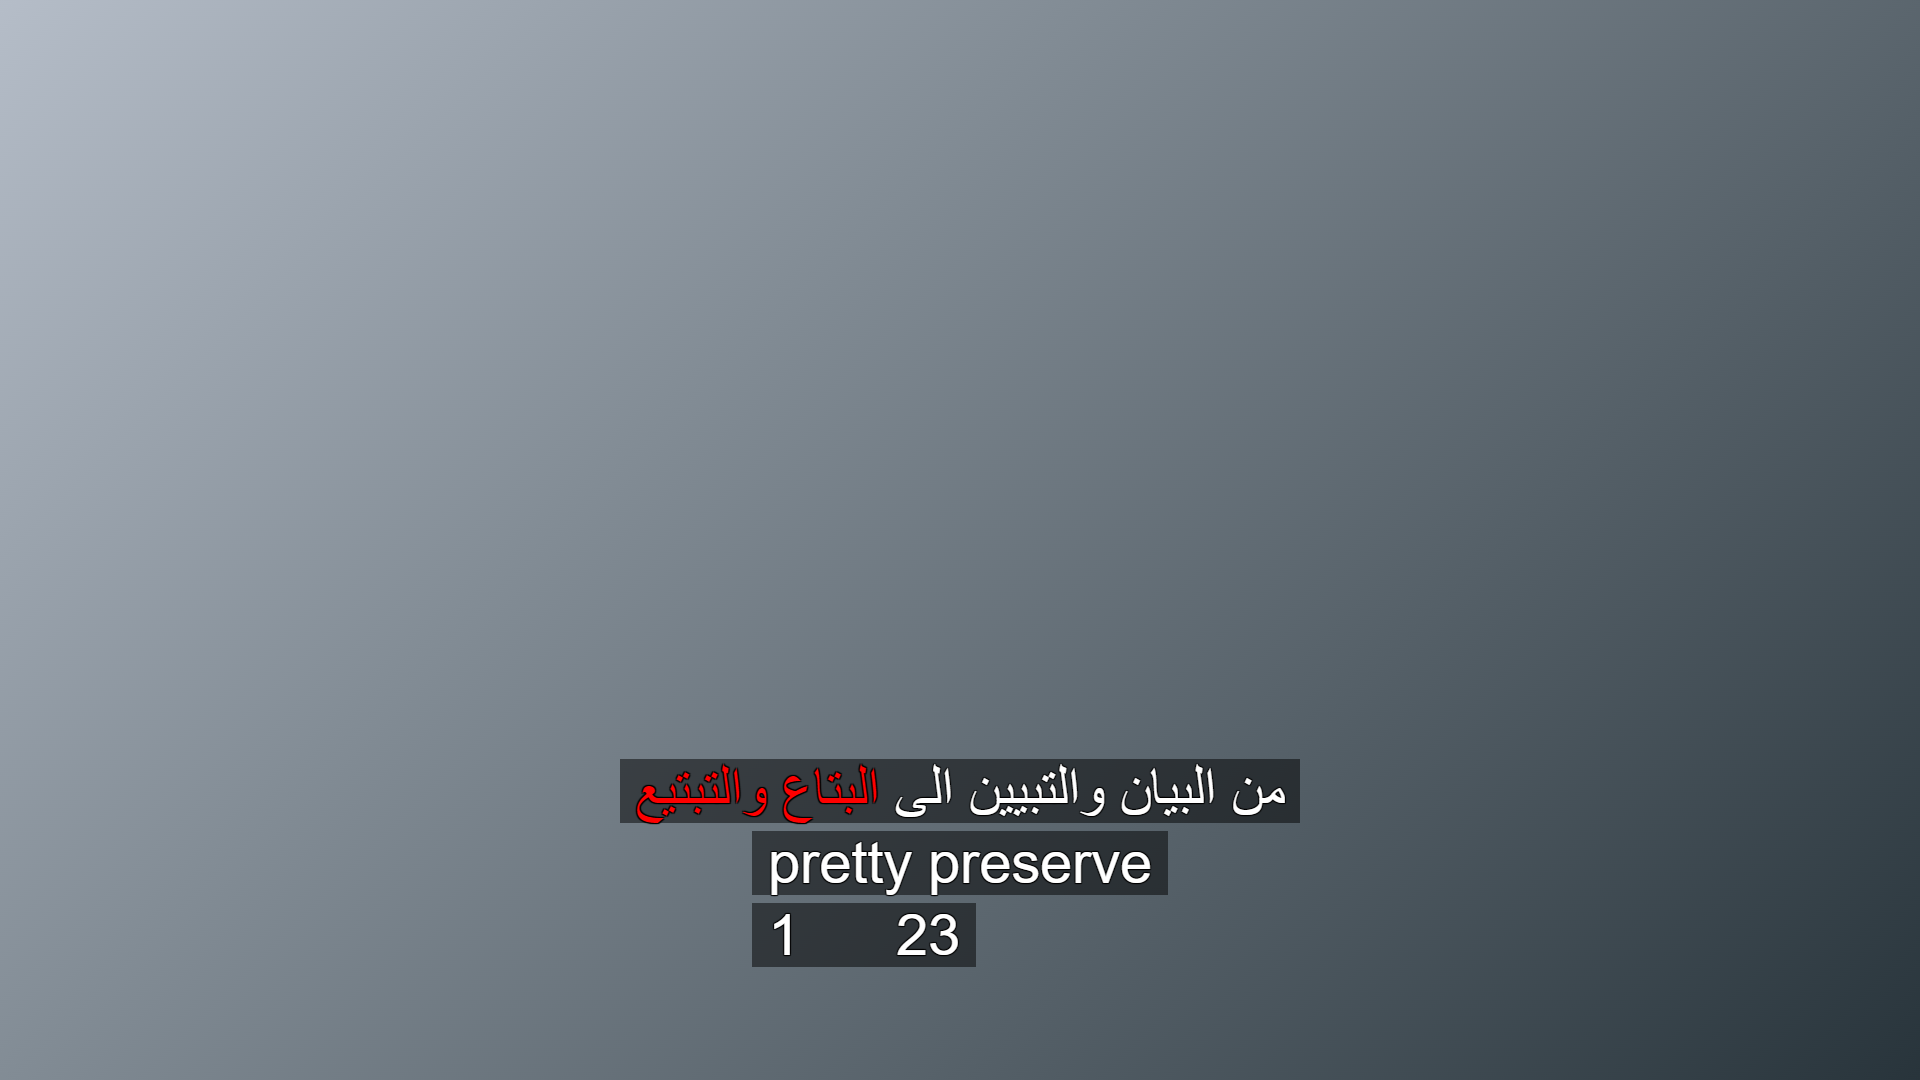
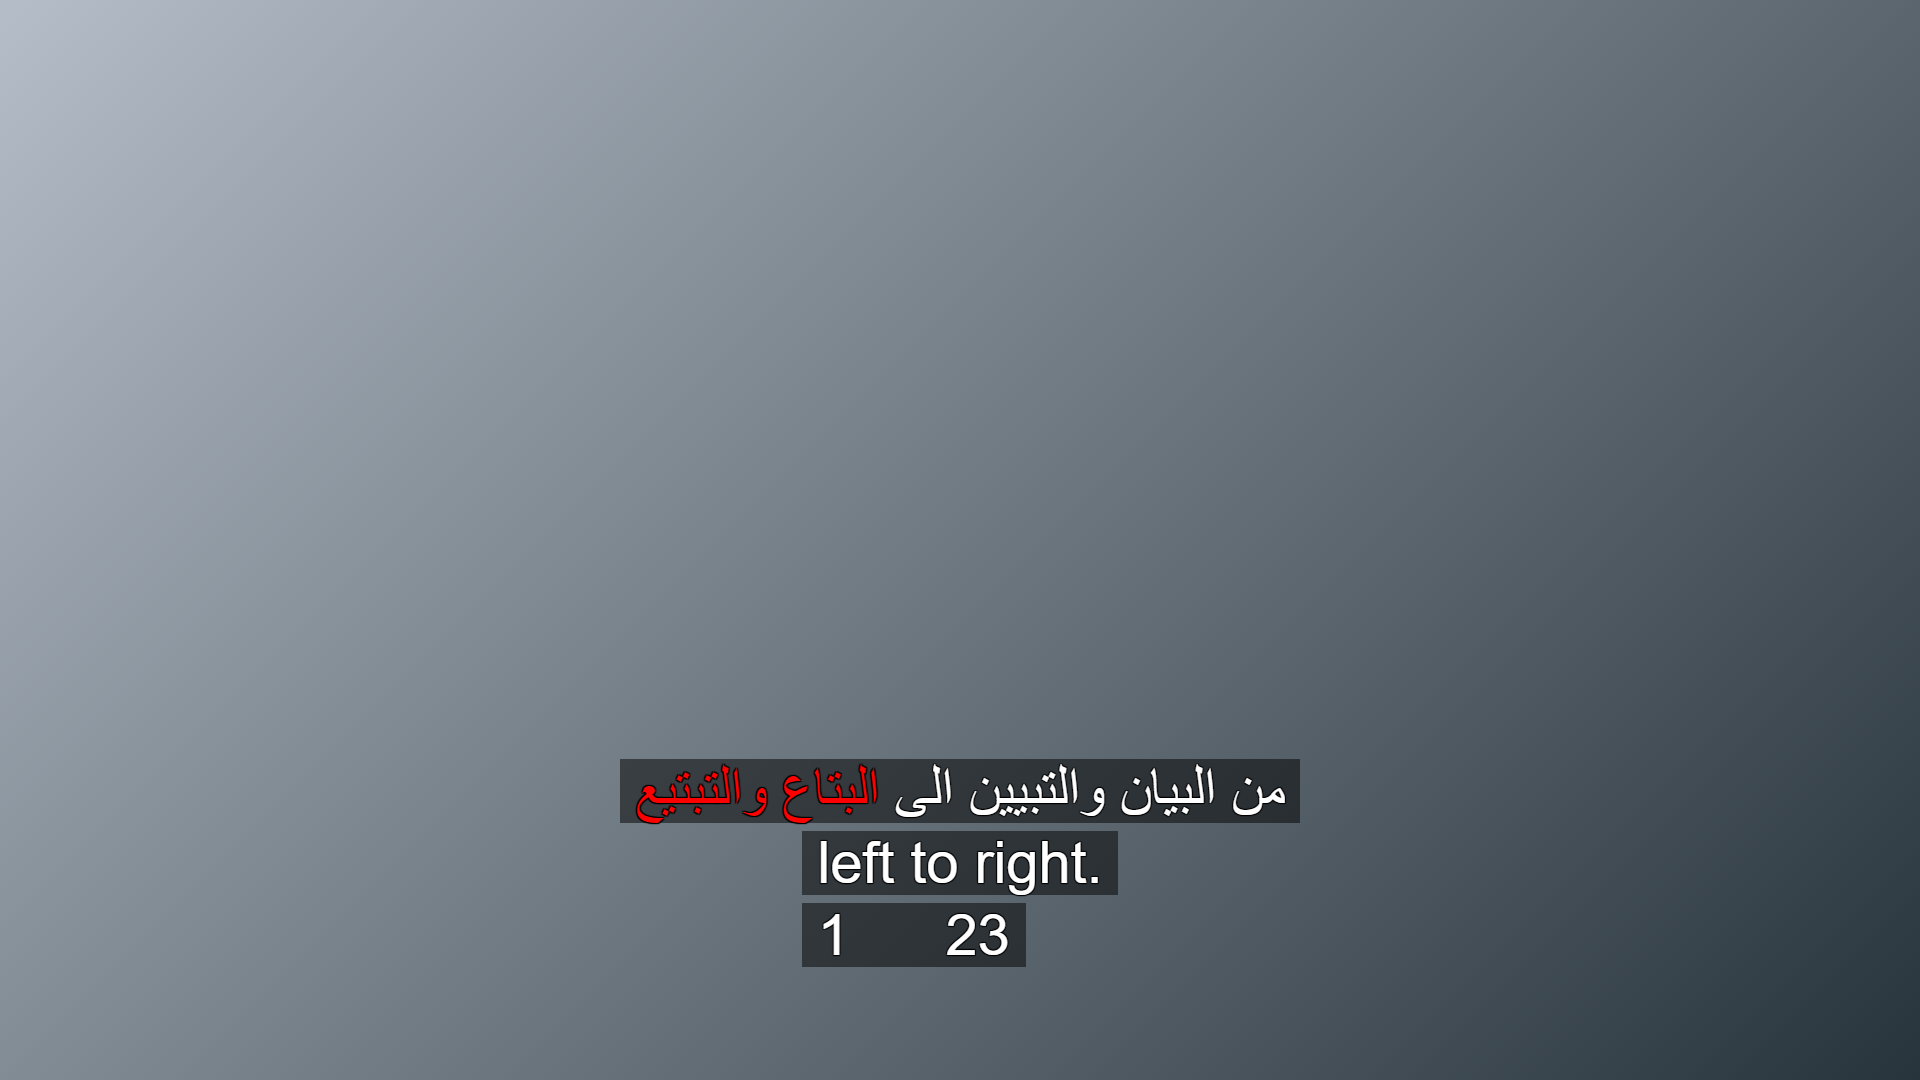
temp japanese sample - remove bad example titles.

Changed region(s): [[0.375, 0.7639, 0.625, 0.9167]]

diff --git a/samples/GenericTestAllStyles2+ja.imscr.md b/samples/GenericTestAllStyles2+ja.imscr.md
@@ -226,32 +226,6 @@ This file is an overall sample which demonstrates all the features of imsc-roset
   <div xml:id="30" region="R0" begin="01:02:03.359" end="01:02:06.359" style="_d_default">
    <p style="p_font2"><span style="ps_bg_ghostboxedblack">Ghost box change to </span><span style="ps_bg_ghostboxedred s_nonered">red</span></p>
   </div>
-  <div xml:id="31" region="R0" begin="01:02:07.359" end="01:02:09.359" style="_d_default">
-   <p style="p_font2 p_rb_res_outside"><span style="s_rb_algn_center s_rb_posn_outside"><span style="s_rb_b">Ruby Above </span><span style="s_rb_t">ruby</span></span><span style="s_rb_algn_center s_rb_posn_outside"><span style="s_rb_b">Ruby Above 2</span><span style="s_rb_t">ruby2</span></span></p>
-  </div>
-  <div xml:id="32" region="R0" begin="01:02:10.359" end="01:02:12.359" style="_d_default">
-   <p style="p_font2 p_rb_res_outside"><span style="s_rb_algn_center s_rb_posn_outside"><span style="s_rb_b">Ruby Below </span><span style="s_rb_t">ruby</span></span><span style="s_rb_algn_center s_rb_posn_outside"><span style="s_rb_b">Ruby Above 2</span><span style="s_rb_t">ruby2</span></span></p>
-  </div>
-  <div xml:id="33" region="R0" begin="01:02:13.359" end="01:02:16.359" style="_d_default">
-   <p style="p_font2 p_rb_res_outside"><span style="s_rb_algn_center s_rb_posn_outside"><span style="s_rb_b">Ruby Above </span><span style="s_rb_t">ruby</span></span><span style="s_rb_algn_center s_rb_posn_outside"><span style="s_rb_b">Ruby Above 2</span><span style="s_rb_t">ruby2</span></span></p>
-   <p style="p_font2 p_rb_res_outside"><span style="s_rb_algn_center s_rb_posn_outside"><span style="s_rb_b">Ruby Below </span><span style="s_rb_t">ruby</span></span><span style="s_rb_algn_center s_rb_posn_outside"><span style="s_rb_b">Ruby Below 2</span><span style="s_rb_t">ruby2</span></span></p>
-  </div>
-  <div xml:id="34" region="R0" begin="01:02:17.359" end="01:02:20.359" style="_d_default">
-   <p style="p_font2 p_rb_res_outside"><span>No Ruby </span><span style="s_rb_algn_center s_rb_posn_outside"><span style="s_rb_b">Ruby Above 2</span><span style="s_rb_t">ruby2</span></span></p>
-   <p style="p_font2 p_rb_res_outside"><span style="s_rb_algn_center s_rb_posn_outside"><span style="s_rb_b">Ruby Below </span><span style="s_rb_t">ruby</span></span><span>No Ruby</span></p>
-  </div>
-  <div xml:id="35" region="R12" begin="01:02:21.359" end="01:02:24.359" style="_d_default">
-   <p style="p_font2 p_rb_res_outside"><span>Vert No Ruby </span><span style="s_rb_algn_center s_rb_posn_outside"><span style="s_rb_b">Ruby Above 2</span><span style="s_rb_t">ruby2</span></span></p>
-   <p style="p_font2 p_rb_res_outside"><span style="s_rb_algn_center s_rb_posn_outside"><span style="s_rb_b">Ruby Below </span><span style="s_rb_t">ruby</span></span><span>No Ruby</span></p>
-  </div>
-  <div xml:id="36" region="R12" begin="01:02:25.359" end="01:02:29.359" style="_d_default">
-   <p style="p_font2 p_rb_res_outside"><span style="s_rb_algn_center s_rb_posn_outside"><span style="s_rb_b">東南</span><span style="s_rb_t">とうなん</span></span></p>
-   <p style="p_font2 p_rb_res_outside"><span style="s_rb_algn_center s_rb_posn_outside"><span style="s_rb_b">東南</span><span style="s_rb_t">たつみ</span></span><span>No Ruby</span></p>
-  </div>
-  <div xml:id="37" region="R12" begin="01:02:30.359" end="01:02:34.359" style="_d_default ps_shear">
-   <p style="p_font2 p_rb_res_outside"><span style="s_combine">1984</span><span style="s_rb_algn_center s_rb_posn_outside"><span style="s_rb_b s_emf_fco">東南</span><span style="s_rb_t">とうなん</span></span></p>
-   <p style="p_font2 p_rb_res_outside"><span style="s_rb_algn_center s_rb_posn_outside"><span style="s_rb_b s_emf_fco">東南</span><span style="s_rb_t">たつみ</span></span><span style="s_emf_fco">No Ruby</span></p>
-  </div>
   <div xml:id="38" region="R0" begin="01:02:35.120" end="01:02:40.120" style="_d_default">
    <p style="p_font2 p_al_center_start"><span>two line</span><span><br/></span><span>center start bottom</span></p>
   </div>
@@ -260,10 +234,6 @@ This file is an overall sample which demonstrates all the features of imsc-roset
   </div>
   <div xml:id="40" region="R0" begin="01:02:45.120" end="01:02:48.120" style="_d_default">
    <p style="p_font2 p_al_center_start ps_bg_ghostboxedblack"><span style="ps_bg_ghostboxedblack">two line</span><span><br/></span><span style="ps_bg_ghostboxedblack">center start bottom</span></p>
-  </div>
-  <div xml:id="41" region="R12" begin="01:02:46.359" end="01:02:49.359" style="_d_default">
-   <p style="p_font2 p_rb_res_outside"><span>Vert No Ruby </span><span style="s_rb_algn_center s_rb_posn_outside"><span style="s_rb_b">Ruby Above 2</span><span style="s_rb_t">ruby2</span></span></p>
-   <p style="p_font2 p_rb_res_outside"><span style="s_rb_algn_center s_rb_posn_outside"><span style="s_rb_b">Ruby Below </span><span style="s_rb_t">ruby</span></span><span>No Ruby</span></p>
   </div>
   <div xml:id="42" region="R0" begin="01:02:50.120" end="01:02:54.120" style="_d_default">
    <p style="p_font2 p_al_center_start ps_bg_ghostboxedblack p_rtl"><span style="ps_bg_ghostboxedblack">abc אותיות </span><span style="ps_bg_ghostboxedblack s_fg_red">bcd השימו 1983 ש</span><span><br/></span><span style="ps_bg_ghostboxedblack">center start bottom</span></p>
@@ -293,11 +263,11 @@ This file is an overall sample which demonstrates all the features of imsc-roset
    <p style="p_font2 p_rb_res_outside"><span style="s_combine">84</span><span style="s_combine">1984</span><span style="s_rb_algn_center s_rb_posn_outside"><span style="s_rb_b s_emf_fco">東南</span><span style="s_rb_t">とうなん</span></span><span><br/></span><span style="s_rb_algn_center s_rb_posn_outside"><span style="s_rb_b s_emf_fco">東南</span><span style="s_rb_t">たつみ</span></span><span style="s_emf_fco">No Ruby</span></p>
   </div>
   <div xml:id="49" region="R12" begin="01:03:25.359" end="01:03:29.359" style="_d_default ps_shear">
-   <p style="p_font2 p_rb_res_outside"><span style="s_combine ps_bg_ghostboxedblack">1984</span><span style="s_rb_algn_center s_rb_posn_outside ps_bg_ghostboxedblack"><span style="s_rb_b s_emf_fco ps_bg_ghostboxedblack">東南</span><span style="s_rb_t ps_bg_ghostboxedblack">とうなん</span></span><span><br/></span><span style="s_rb_algn_center s_rb_posn_outside ps_bg_ghostboxedblack"><span style="s_rb_b s_emf_fco ps_bg_ghostboxedblack"> 東南</span><span style="s_rb_t ps_bg_ghostboxedblack">たつみ</span></span><span style="s_emf_fco ps_bg_ghostboxedblack">No Ruby Boxed</span></p>
+   <p style="p_font2 p_rb_res_outside"><span style="s_combine ps_bg_ghostboxedblack">1984</span><span style="s_rb_algn_center s_rb_posn_outside ps_bg_ghostboxedblack"><span style="s_rb_b s_emf_fco">東南</span><span style="s_rb_t">とうなん</span></span><span><br/></span><span style="s_rb_algn_center s_rb_posn_outside ps_bg_ghostboxedblack"><span style="s_rb_b s_emf_fco"> 東南</span><span style="s_rb_t">たつみ</span></span><span style="s_emf_fco ps_bg_ghostboxedblack">No Ruby Boxed</span></p>
   </div>
   <div xml:id="50" region="R0" begin="01:03:30.420" end="01:03:31.420" style="_d_default">
    <p style="p_font2 p_al_center_start p_rtl"><span style="ps_bg_ghostboxedblack">من البيان والتبيين الى</span><span style="ps_bg_ghostboxedblack s_fg_red"> البتاع والتبتيع</span></p>
-   <p style="p_font2 p_al_center_start"><span style="ps_bg_ghostboxedblack">pretty preserve</span><span><br/></span><span style="ps_bg_ghostboxedblack">1      </span><span style="ps_bg_ghostboxedblack">2</span><span style="ps_bg_ghostboxedblack">3</span></p>
+   <p style="p_font2 p_al_center_start"><span style="ps_bg_ghostboxedblack">left to right.</span><span><br/></span><span style="ps_bg_ghostboxedblack">1      </span><span style="ps_bg_ghostboxedblack">2</span><span style="ps_bg_ghostboxedblack">3</span></p>
   </div>
   <div xml:id="53" region="R0" begin="01:03:34.359" end="01:03:36.359" style="_d_default ps_shear">
    <p style="p_font2 p_rb_res_outside"><span style="s_combine">84</span><span>1984</span></p>
@@ -774,109 +744,6 @@ This div represents a two line subtitle at the bottom of the screen.  The subtit
 <img src="./images/GenericTestAllStyles2+ja.imscr/3723.359.png" width="600"/>
 
 
-### subtitle 31 at begin=01:02:07.359
-
-#### div XML
-
-```
-<div xml:id="31" region="R0" begin="01:02:07.359" end="01:02:09.359" style="_d_default">
- <p style="p_font2 p_rb_res_outside"><span style="s_rb_algn_center s_rb_posn_outside"><span style="s_rb_b">Ruby Above </span><span style="s_rb_t">ruby</span></span><span style="s_rb_algn_center s_rb_posn_outside"><span style="s_rb_b">Ruby Above 2</span><span style="s_rb_t">ruby2</span></span></p>
-</div>
-```
-#### Resulting Image
-
-<img src="./images/GenericTestAllStyles2+ja.imscr/3727.359.png" width="600"/>
-
-
-### subtitle 32 at begin=01:02:10.359
-
-#### div XML
-
-```
-<div xml:id="32" region="R0" begin="01:02:10.359" end="01:02:12.359" style="_d_default">
- <p style="p_font2 p_rb_res_outside"><span style="s_rb_algn_center s_rb_posn_outside"><span style="s_rb_b">Ruby Below </span><span style="s_rb_t">ruby</span></span><span style="s_rb_algn_center s_rb_posn_outside"><span style="s_rb_b">Ruby Above 2</span><span style="s_rb_t">ruby2</span></span></p>
-</div>
-```
-#### Resulting Image
-
-<img src="./images/GenericTestAllStyles2+ja.imscr/3730.359.png" width="600"/>
-
-
-### subtitle 33 at begin=01:02:13.359
-
-#### div XML
-
-```
-<div xml:id="33" region="R0" begin="01:02:13.359" end="01:02:16.359" style="_d_default">
- <p style="p_font2 p_rb_res_outside"><span style="s_rb_algn_center s_rb_posn_outside"><span style="s_rb_b">Ruby Above </span><span style="s_rb_t">ruby</span></span><span style="s_rb_algn_center s_rb_posn_outside"><span style="s_rb_b">Ruby Above 2</span><span style="s_rb_t">ruby2</span></span></p>
- <p style="p_font2 p_rb_res_outside"><span style="s_rb_algn_center s_rb_posn_outside"><span style="s_rb_b">Ruby Below </span><span style="s_rb_t">ruby</span></span><span style="s_rb_algn_center s_rb_posn_outside"><span style="s_rb_b">Ruby Below 2</span><span style="s_rb_t">ruby2</span></span></p>
-</div>
-```
-#### Resulting Image
-
-<img src="./images/GenericTestAllStyles2+ja.imscr/3733.359.png" width="600"/>
-
-
-### subtitle 34 at begin=01:02:17.359
-
-#### div XML
-
-```
-<div xml:id="34" region="R0" begin="01:02:17.359" end="01:02:20.359" style="_d_default">
- <p style="p_font2 p_rb_res_outside"><span>No Ruby </span><span style="s_rb_algn_center s_rb_posn_outside"><span style="s_rb_b">Ruby Above 2</span><span style="s_rb_t">ruby2</span></span></p>
- <p style="p_font2 p_rb_res_outside"><span style="s_rb_algn_center s_rb_posn_outside"><span style="s_rb_b">Ruby Below </span><span style="s_rb_t">ruby</span></span><span>No Ruby</span></p>
-</div>
-```
-#### Resulting Image
-
-<img src="./images/GenericTestAllStyles2+ja.imscr/3737.359.png" width="600"/>
-
-
-### subtitle 35 at begin=01:02:21.359
-
-#### div XML
-
-```
-<div xml:id="35" region="R12" begin="01:02:21.359" end="01:02:24.359" style="_d_default">
- <p style="p_font2 p_rb_res_outside"><span>Vert No Ruby </span><span style="s_rb_algn_center s_rb_posn_outside"><span style="s_rb_b">Ruby Above 2</span><span style="s_rb_t">ruby2</span></span></p>
- <p style="p_font2 p_rb_res_outside"><span style="s_rb_algn_center s_rb_posn_outside"><span style="s_rb_b">Ruby Below </span><span style="s_rb_t">ruby</span></span><span>No Ruby</span></p>
-</div>
-```
-#### Resulting Image
-
-<img src="./images/GenericTestAllStyles2+ja.imscr/3741.359.png" width="600"/>
-
-
-### subtitle 36 at begin=01:02:25.359
-
-#### div XML
-
-```
-<div xml:id="36" region="R12" begin="01:02:25.359" end="01:02:29.359" style="_d_default">
- <p style="p_font2 p_rb_res_outside"><span style="s_rb_algn_center s_rb_posn_outside"><span style="s_rb_b">東南</span><span style="s_rb_t">とうなん</span></span></p>
- <p style="p_font2 p_rb_res_outside"><span style="s_rb_algn_center s_rb_posn_outside"><span style="s_rb_b">東南</span><span style="s_rb_t">たつみ</span></span><span>No Ruby</span></p>
-</div>
-```
-#### Resulting Image
-
-<img src="./images/GenericTestAllStyles2+ja.imscr/3745.359.png" width="600"/>
-
-
-### subtitle 37 at begin=01:02:30.359
-
-#### div XML
-
-```
-<div xml:id="37" region="R12" begin="01:02:30.359" end="01:02:34.359" style="_d_default ps_shear">
- <p style="p_font2 p_rb_res_outside"><span style="s_combine">1984</span><span style="s_rb_algn_center s_rb_posn_outside"><span style="s_rb_b s_emf_fco">東南</span><span style="s_rb_t">とうなん</span></span></p>
- <p style="p_font2 p_rb_res_outside"><span style="s_rb_algn_center s_rb_posn_outside"><span style="s_rb_b s_emf_fco">東南</span><span style="s_rb_t">たつみ</span></span><span style="s_emf_fco">No Ruby</span></p>
-</div>
-```
-#### Resulting Image
-
-<img src="./images/GenericTestAllStyles2+ja.imscr/3750.359.png" width="600"/>
-
-
 ### subtitle 38 at begin=01:02:35.120
 
 #### div XML
@@ -917,21 +784,6 @@ This div represents a two line subtitle at the bottom of the screen.  The subtit
 #### Resulting Image
 
 <img src="./images/GenericTestAllStyles2+ja.imscr/3765.12.png" width="600"/>
-
-
-### subtitle 41 at begin=01:02:46.359
-
-#### div XML
-
-```
-<div xml:id="41" region="R12" begin="01:02:46.359" end="01:02:49.359" style="_d_default">
- <p style="p_font2 p_rb_res_outside"><span>Vert No Ruby </span><span style="s_rb_algn_center s_rb_posn_outside"><span style="s_rb_b">Ruby Above 2</span><span style="s_rb_t">ruby2</span></span></p>
- <p style="p_font2 p_rb_res_outside"><span style="s_rb_algn_center s_rb_posn_outside"><span style="s_rb_b">Ruby Below </span><span style="s_rb_t">ruby</span></span><span>No Ruby</span></p>
-</div>
-```
-#### Resulting Image
-
-<img src="./images/GenericTestAllStyles2+ja.imscr/3766.359.png" width="600"/>
 
 
 ### subtitle 42 at begin=01:02:50.120
@@ -1066,7 +918,7 @@ This div represents a two line subtitle at the bottom of the screen.  The subtit
 
 ```
 <div xml:id="49" region="R12" begin="01:03:25.359" end="01:03:29.359" style="_d_default ps_shear">
- <p style="p_font2 p_rb_res_outside"><span style="s_combine ps_bg_ghostboxedblack">1984</span><span style="s_rb_algn_center s_rb_posn_outside ps_bg_ghostboxedblack"><span style="s_rb_b s_emf_fco ps_bg_ghostboxedblack">東南</span><span style="s_rb_t ps_bg_ghostboxedblack">とうなん</span></span><span><br/></span><span style="s_rb_algn_center s_rb_posn_outside ps_bg_ghostboxedblack"><span style="s_rb_b s_emf_fco ps_bg_ghostboxedblack"> 東南</span><span style="s_rb_t ps_bg_ghostboxedblack">たつみ</span></span><span style="s_emf_fco ps_bg_ghostboxedblack">No Ruby Boxed</span></p>
+ <p style="p_font2 p_rb_res_outside"><span style="s_combine ps_bg_ghostboxedblack">1984</span><span style="s_rb_algn_center s_rb_posn_outside ps_bg_ghostboxedblack"><span style="s_rb_b s_emf_fco">東南</span><span style="s_rb_t">とうなん</span></span><span><br/></span><span style="s_rb_algn_center s_rb_posn_outside ps_bg_ghostboxedblack"><span style="s_rb_b s_emf_fco"> 東南</span><span style="s_rb_t">たつみ</span></span><span style="s_emf_fco ps_bg_ghostboxedblack">No Ruby Boxed</span></p>
 </div>
 ```
 #### Resulting Image
@@ -1081,7 +933,7 @@ This div represents a two line subtitle at the bottom of the screen.  The subtit
 ```
 <div xml:id="50" region="R0" begin="01:03:30.420" end="01:03:31.420" style="_d_default">
  <p style="p_font2 p_al_center_start p_rtl"><span style="ps_bg_ghostboxedblack">من البيان والتبيين الى</span><span style="ps_bg_ghostboxedblack s_fg_red"> البتاع والتبتيع</span></p>
- <p style="p_font2 p_al_center_start"><span style="ps_bg_ghostboxedblack">pretty preserve</span><span><br/></span><span style="ps_bg_ghostboxedblack">1      </span><span style="ps_bg_ghostboxedblack">2</span><span style="ps_bg_ghostboxedblack">3</span></p>
+ <p style="p_font2 p_al_center_start"><span style="ps_bg_ghostboxedblack">left to right.</span><span><br/></span><span style="ps_bg_ghostboxedblack">1      </span><span style="ps_bg_ghostboxedblack">2</span><span style="ps_bg_ghostboxedblack">3</span></p>
 </div>
 ```
 #### Resulting Image
